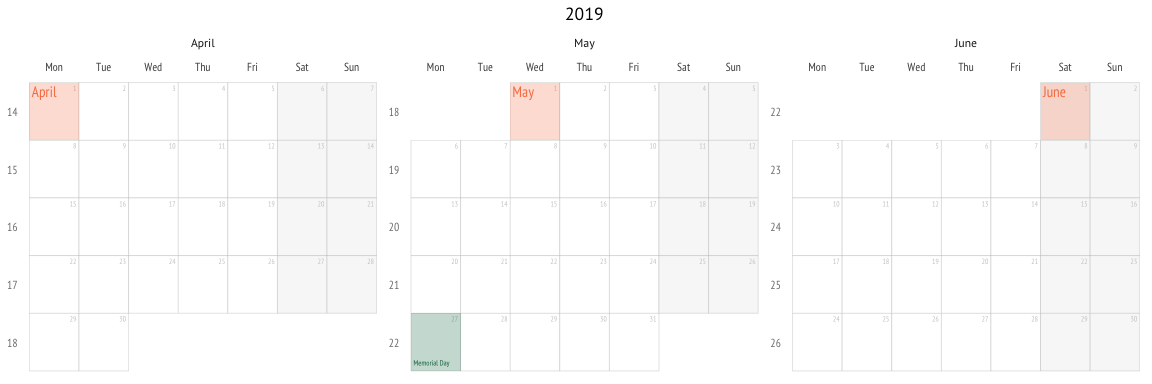
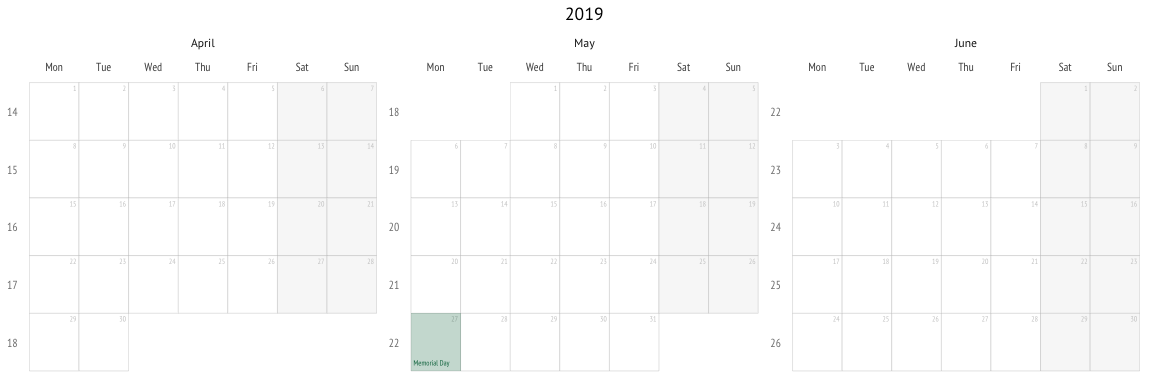
add param for font face used in geom_text()

Changed region(s): [[0.0, 0.2188, 0.0938, 0.375], [0.9062, 0.2188, 0.9688, 0.375], [0.4375, 0.2188, 0.5, 0.375]]

diff --git a/README.md b/README.md
@@ -28,8 +28,6 @@ library(ggweekly)
 ggweek_planner(
   start_day = "2019-04-01", 
   end_day = "2019-06-30", 
-  show_day_numbers = TRUE, 
-  show_month_boundaries = TRUE
 )
 ```
 
@@ -41,8 +39,8 @@ You can also create traditional calendars as well.
 ggweek_planner(
   start_day = "2019-04-01", 
   end_day = "2019-06-30", 
-  show_day_numbers = TRUE, 
   show_month_boundaries = FALSE, 
+  show_month_start_day = FALSE,
   week_start_label = "isoweek"
 ) + 
   ggplot2::ggtitle("2019") +
